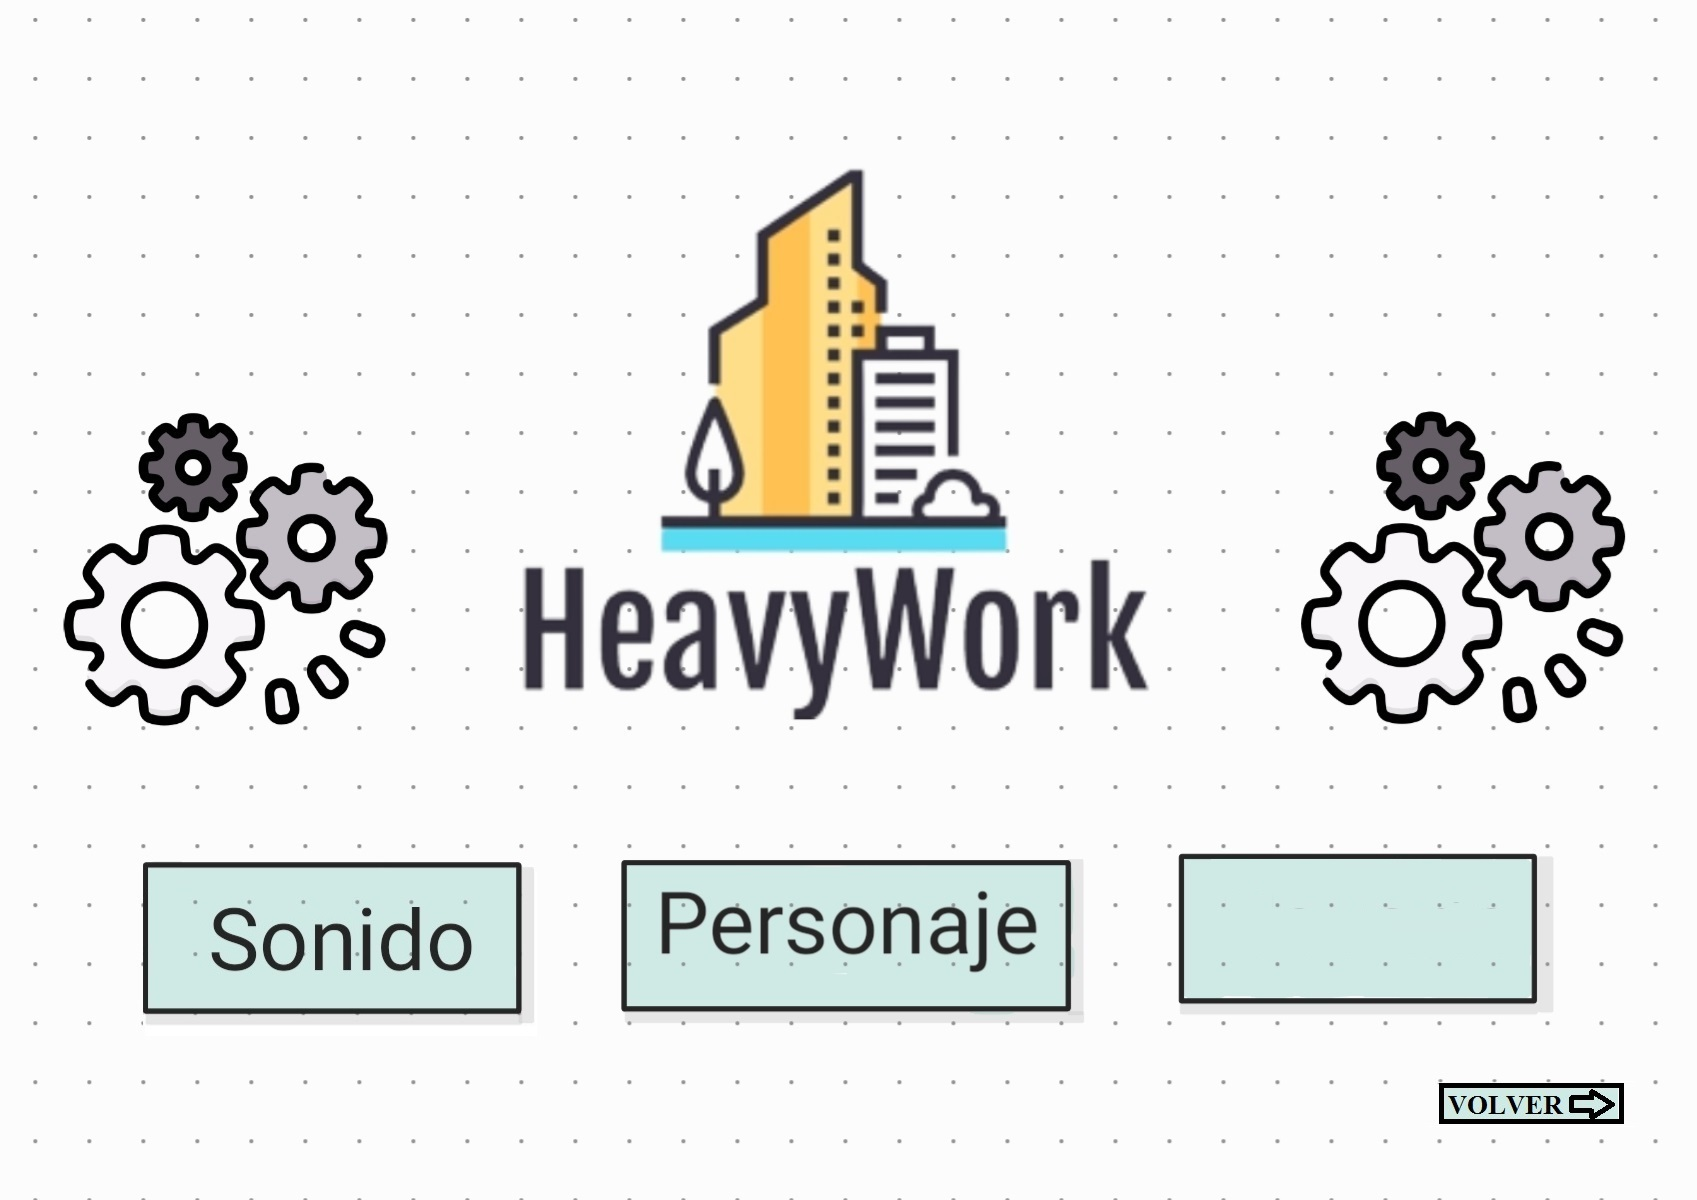
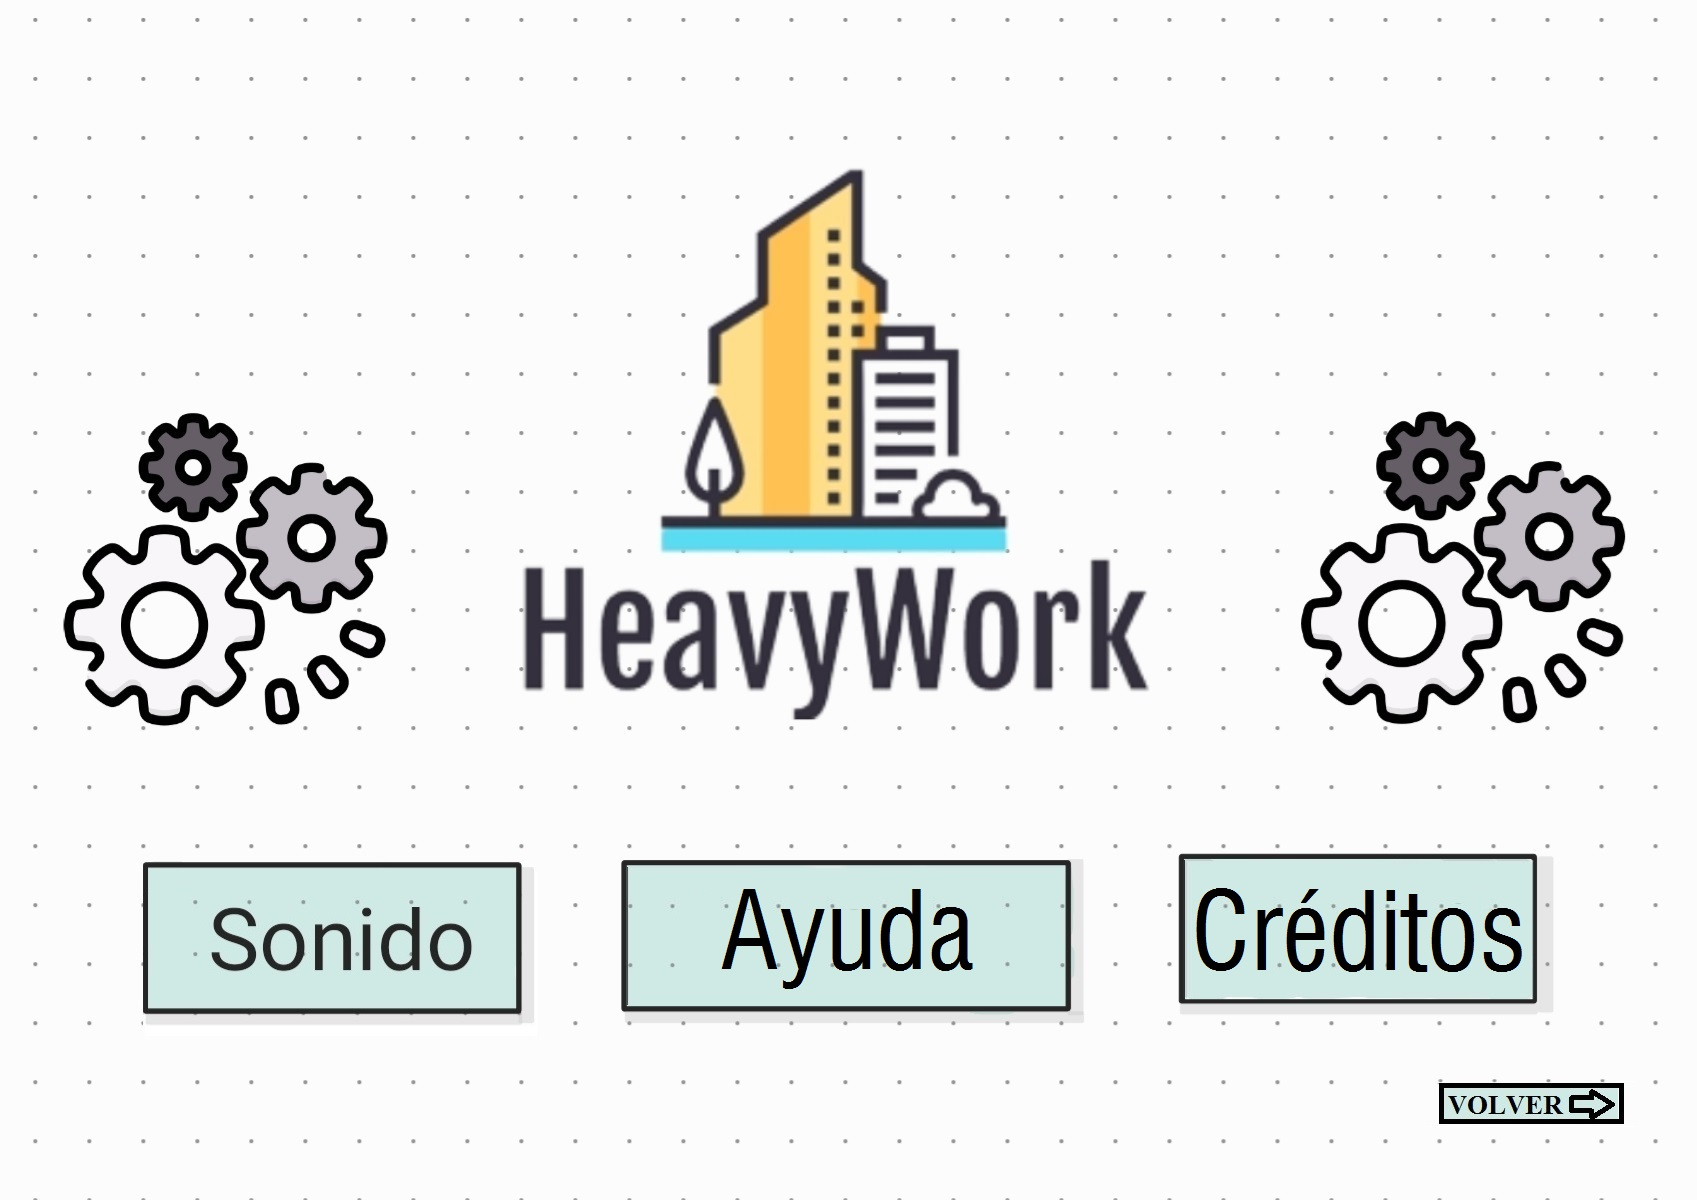
Hace funcionar los superpoderes al recoger token, sustituye partes del menú pendientes
Los superpoderes (lentitud, rapidez) ya funcionan durante 5 segundos tras recoger el objeto. Se sustituye la imagen principal de invisibilidad para que sea uniforme con las otras y se añade las pestañas de "créditos" y "ayuda" al jugador, con sus respectivos botones "volver"

Changed region(s): [[0.3748, 0.74, 0.6246, 0.8325], [0.6871, 0.74, 0.9057, 0.8325]]

diff --git a/HeavyWork/Game.c b/HeavyWork/Game.c
@@ -27,8 +27,9 @@ int game(Window window, Textures tex, player_t* player, Mix_Chunk *recoger, Mix_
     Entity *muros;
     Bot* bots;
     key_buttons KEYS;KEYS.W=false;KEYS.A=false;KEYS.S=false;KEYS.D=false;KEYS.SPACE=false;KEYS.ESC=false;KEYS.ESC_PREV=false;
-    int nmuros=0, i, j, stage=1, last_time, nbots;
-    float delta_time,game_time,tiempo_boton_in,tiempo_boton_fin = 0,tiempo_fin_invisibilidad,tiempo_fin_invencibilidad;
+    int nmuros=0, i, j, stage=1, last_time, nbots, velocidad = 1;
+    int tiempo_fin_rap[1]= {0}, tiempo_fin_lent[1] = {0};
+    float delta_time,game_time,tiempo_boton_in = 0,tiempo_boton_fin = 0,tiempo_fin_invisibilidad = 0,tiempo_fin_invencibilidad = 0;
     bool same_press;
     Entity Tok[1];
     Vector2f v[1];v[0].x=100;v[0].y=100;//!Borrar esto cuando añadamos más tokens
@@ -85,7 +86,8 @@ int game(Window window, Textures tex, player_t* player, Mix_Chunk *recoger, Mix_
             free(m_Lab.esq);
             stage=2;
             update=true;
-            TokensCreator(Tok,tex, v, 0, 1);
+            TokensCreator(Tok,tex, v, 0, 1); //Tal y como está, al recoger la taza aumenta la velocidad.Si donde pone 0 se pone 1, imprime
+            //"¡100 ptos!" al recoger el billete, si se pone tipo 1 spawnea el charco y al pasar por él ralentiza durante los 5s
 
             break;
 
@@ -155,10 +157,12 @@ int game(Window window, Textures tex, player_t* player, Mix_Chunk *recoger, Mix_
                         }
 
                         playerSetDirection(player, direction);
-                        movLab(muros, nmuros, KEYS, *player, bots, Tok, 1, nbots, boton, delta_time);
-                        catchToken(Tok, 1, player, tex);
+                        movLab(muros, nmuros, KEYS, *player, bots, Tok, 1, nbots, boton, delta_time, velocidad);
+                        catchToken(Tok, 1, player, tex, recoger,game_time, tiempo_fin_rap, tiempo_fin_lent,&velocidad);
                     }
-
+                    printf("%i\n",velocidad);
+                    //printf("%i\n",tiempo_fin_rap[1]);
+                    printf("%i\n",tiempo_fin_lent[1]);
                     if (KEYS.SPACE)
                         boton = boton_invisibilidad (boton, game_time, &tiempo_boton_in, &tiempo_boton_fin,&tiempo_fin_invisibilidad, &invisibilidad, invisi);
 
@@ -181,7 +185,7 @@ int game(Window window, Textures tex, player_t* player, Mix_Chunk *recoger, Mix_
 
                     for(i=0;i<nbots;i++)
                     {
-                    if((playerDist(player, bots[i], muros, nmuros)<=300)&&(invisibilidad == 0))
+                    if((playerDist(player, bots[i], muros, nmuros)<=300)&&(invisibilidad == 0)&&(invenc==false))
                     {
                         perseguir(player, &bots[i], muros, nmuros, delta_time, invisibilidad);
                     }
@@ -191,6 +195,10 @@ int game(Window window, Textures tex, player_t* player, Mix_Chunk *recoger, Mix_
 
                     if (invenc == true) //Comprueba si ya han pasado el tiempo de invencibilidad
                         invenc = invencibilidad (game_time, &tiempo_fin_invencibilidad, invenc);
+                    if (velocidad != 1)
+                    {
+                        velocidad =  finvelo (game_time, 1, tiempo_fin_rap, tiempo_fin_lent, velocidad);
+                    }
 
                 }
 
@@ -228,3 +236,26 @@ bool invencibilidad (float time, int *tiempo_fin_invencibilidad, bool invenc)
 //se hace verdadero el bool y se crea una variable tiempo_fin_invencibilidad. Esta es la suma del tiempo en el que se
 //cambia el booleano y el tiempo que queremos que dure, 5 segundos. Se comprueba si el tiempo de juego en cada instante
 //es el mismo que tiempo_fin_invencibilidad para entonces desactivar el bool.
+
+int finvelo (float gametime, int ntokens, int tiempo_fin_rap[], int tiempo_fin_lent[], int velocidad)
+{
+    int gametime_int,i;
+    gametime_int = (int) gametime;
+    for (i=0;i<ntokens;i++)
+    {
+       if ((gametime_int == tiempo_fin_rap[i])&&(velocidad == 2))
+       {
+           return 1;
+       }
+       else if ((velocidad == 2))
+       {
+           return 2;
+       }
+       else if ((gametime_int == tiempo_fin_lent[i])&&(velocidad == 0))
+       {
+           return 1;
+       }
+       else return 0;
+    }
+
+}

diff --git a/HeavyWork/Tokens.c b/HeavyWork/Tokens.c
@@ -15,6 +15,7 @@
 void TokensCreator(Entity Token[],Textures tex, Vector2f v[], int type, int ntokens)
 {
     int i;
+    Token[i].type = type;
     for(i=0; i<ntokens; i++)
     {
         Token[i].src.x = 0;
@@ -22,7 +23,7 @@ void TokensCreator(Entity Token[],Textures tex, Vector2f v[], int type, int ntok
         Token[i].dst.x = v[i].x;
         Token[i].dst.y = v[i].y;
 
-        switch(type)
+        switch(Token[i].type)
         {
         case 0://Taza café
 
@@ -64,13 +65,31 @@ void renderToken(Entity Token[], Window window, int ntokens)
 
 }
 
-void catchToken(Entity Token[], int ntokens, player_t* player, Textures tex)
+void catchToken(Entity Token[], int ntokens, player_t* player, Textures tex, Mix_Chunk *efecto, float gametime, int tiempo_fin_rap[1], int tiempo_fin_lent[1], int *velocidad)
 {
+    int gametime_int;
+    gametime_int = (int) gametime;
     for(int i=0; i<ntokens; i++)
     {
         if(ColisionPlayer(*player, Token[i])==1)
         {
+            if (Token[i].collected==false)
+                Mix_PlayChannel( -1, efecto, 0 );
             Token[i].collected=true;
+            switch(Token[i].type)
+            {
+            case 0://Taza de café
+                *velocidad = 2; //Ultra velocidad
+                tiempo_fin_rap[i] = gametime_int + 5;
+                break;
+            case 1://Moneda
+                printf("¡100ptos\n!");
+                break;
+            case 2:
+                *velocidad = 0;//Velocidad lenta
+                tiempo_fin_lent[i] = gametime_int + 5;
+                break;
+            }
         }
     }
 }

diff --git a/HeavyWork/HeavyWork.c b/HeavyWork/HeavyWork.c
@@ -50,7 +50,7 @@ int main(int argc, char *argv[])
     }
 
 	//Cargamos las texturas que vayamos a usar
-    tex.playerinv = loadTexture("resources/persinv.png",mainWin);
+    tex.playerinv = loadTexture("resources/playerdefinv.png",mainWin);
     tex.playerinvdrcha = loadTexture("resources/playerdefinvdrcha.png",mainWin);
     tex.playerinvizqda = loadTexture("resources/playerdefinvizqda.png",mainWin);
     tex.playerinvatras = loadTexture("resources/playerdefinvatras.png",mainWin);
@@ -66,9 +66,7 @@ int main(int argc, char *argv[])
 	tex.ajustes = loadTexture("Resources/ajustes2.jpg",mainWin);
 	tex.ajusnos = loadTexture("Resources/ajustesno2.jpg",mainWin);
 	tex.carga = loadTexture("Resources/carga2.jpg",mainWin);
-	tex.personaje1 = loadTexture("Resources/personajesn.jpg",mainWin);
-	tex.personaje2 = loadTexture("Resources/personaje2.jpg",mainWin);
-	tex.personaje3 = loadTexture("Resources/personaje3.jpg",mainWin);
+	tex.ayuda = loadTexture("Resources/Ayuda.jpg",mainWin);
 
 	tex.wall = loadTexture("resources/Negro.jpg",mainWin);
     tex.fondo = loadTexture("resources/parquetg.jpg",mainWin);

diff --git a/HeavyWork/Laberinto.h b/HeavyWork/Laberinto.h
@@ -31,7 +31,7 @@ typedef struct
 void generarLaberinto(M_Lab m_Lab);
 void drawLab(Window window, M_Lab m_Lab, Entity muros[], SDL_Texture* wallTex);
 void DebugLab(M_Lab m_Lab);
-void movLab(Entity muros[], int nmuros, key_buttons k, player_t player, Bot bot[],Entity Tok[], int ntokens, int nbots, bool boton, float delta_time);
+void movLab(Entity muros[], int nmuros, key_buttons k, player_t player, Bot bot[],Entity Tok[], int ntokens, int nbots, bool boton, float delta_time,int velocidad);
 void generarBots(M_Lab m_Lab, Bot bots[], int nbots, Textures tex);
 void renderLab(Window window, Entity muros[], int nmuros);
 

diff --git a/HeavyWork/Utilities.h b/HeavyWork/Utilities.h
@@ -45,9 +45,7 @@ typedef struct
     SDL_Texture* menu;
     SDL_Texture* ajustes;
     SDL_Texture* ajusnos;
-    SDL_Texture* personaje1;
-    SDL_Texture* personaje2;
-    SDL_Texture* personaje3;
+    SDL_Texture* ayuda;
     SDL_Texture* carga;
     SDL_Texture* wall;
     SDL_Texture* fondo;
@@ -80,6 +78,7 @@ typedef struct
     SDL_Rect src;
     SDL_Rect dst;
     bool collected; //Solo para Tokens
+    int type; //Solo para tipo token
 
 
 } Entity; //Estructura de los muros Y tokens

diff --git a/HeavyWork/Tokens.h b/HeavyWork/Tokens.h
@@ -21,4 +21,4 @@ typedef struct
 
 void TokensCreator(Entity Token[],Textures tex, Vector2f v[], int type, int ntokens);
 void renderToken(Entity Token[], Window window, int ntokens);
-void catchToken(Entity Token[], int ntokens, player_t* player, Textures tex);
+void catchToken(Entity Token[], int ntokens, player_t* player, Textures tex, Mix_Chunk *efecto, float gametime, int tiempo_fin_rap[1], int tiempo_fin_lent[1], int *velocidad);

diff --git a/HeavyWork/Game.h b/HeavyWork/Game.h
@@ -15,3 +15,5 @@
 
 int game(Window window, Textures tex, player_t* player, Mix_Chunk *recoger, Mix_Chunk *invisi);
 bool invencibilidad (float time, int *tiempo_fin_invencibilidad, bool invenc);
+int finvelo (float gametime, int ntokens, int tiempo_fin_rap[], int tiempo_fin_lent[], int velocidad);
+
